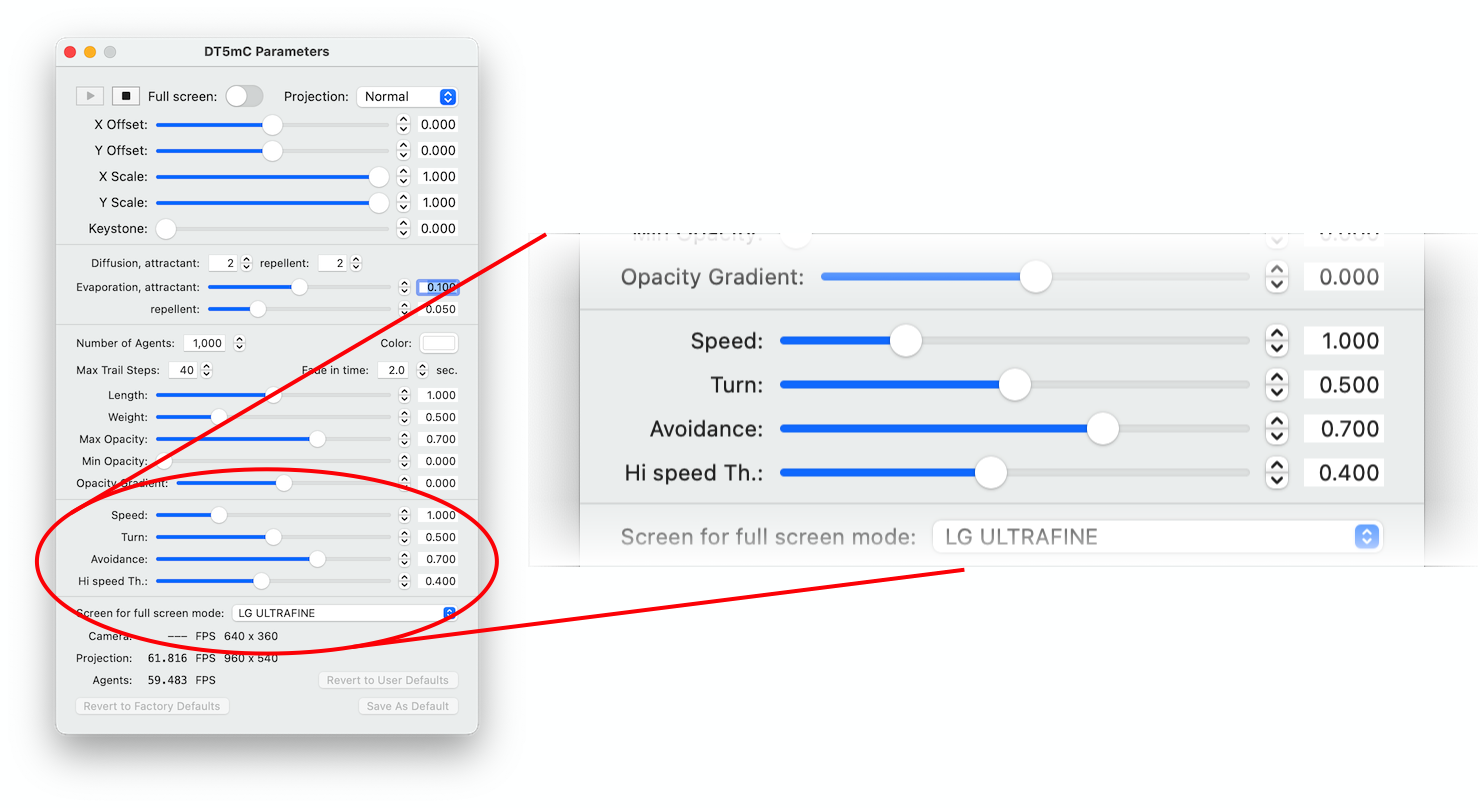
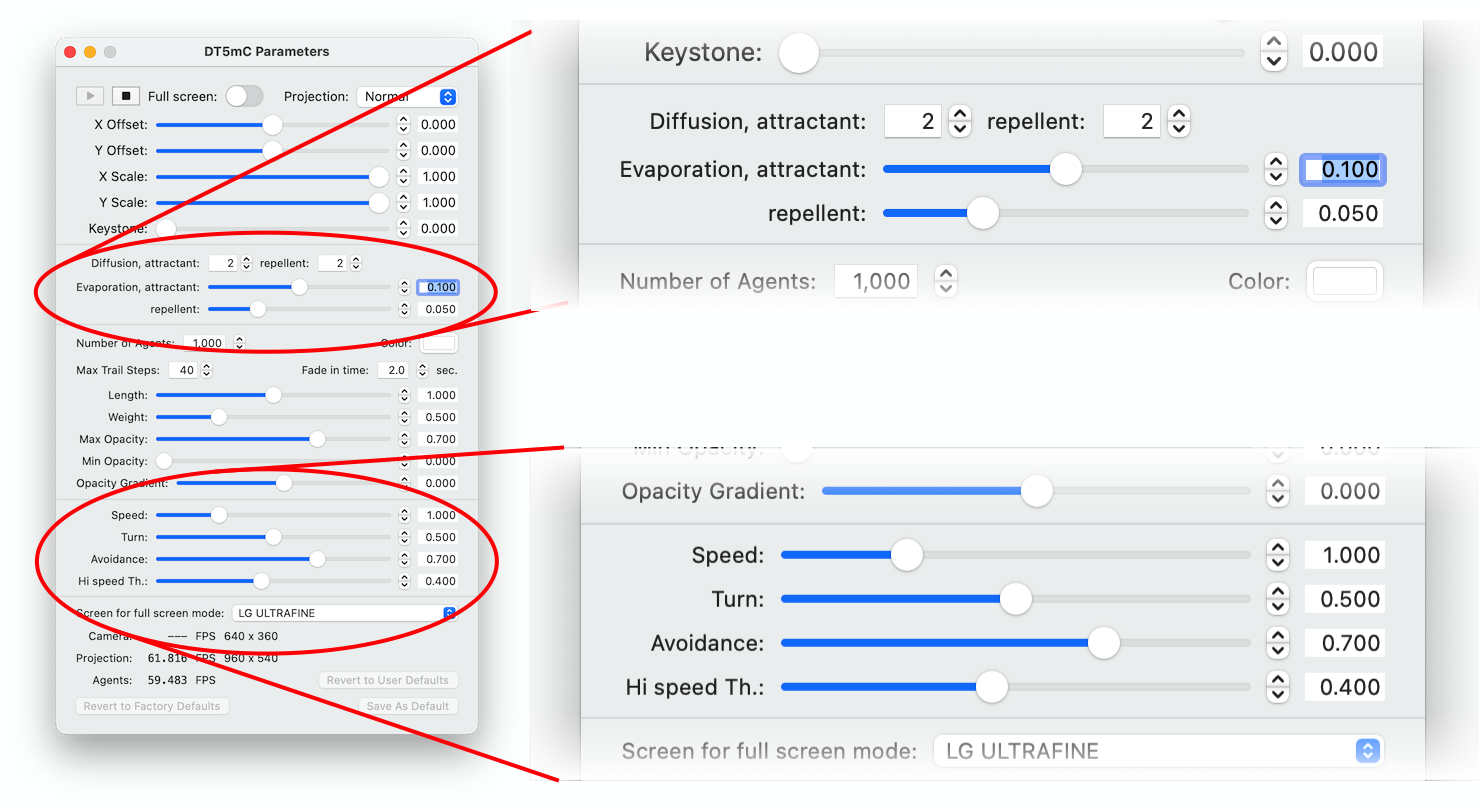
More help book, and remove useless stuffs.

diff --git a/DT5mCHelp/50Movement.html b/DT5mCHelp/50Movement.html
@@ -26,6 +26,20 @@ You can modify the movement of swarm by the following four parameters:
 <li><b>Avoidance</b>: weight of repellent force for integration with attraction force.</li>
 <li><b>Hi speed th.</b>: upper threshold of attractant's density for agent into high speed exploration.</li>
 </ol>
+<p>
+The swarm behaviour depends on the distribution of two types of virtual chemicals, attractant and repellent.
+These distributions are represented by separated two dimensional arrays of floating point numbers in the computer's memory.
+The arrangement is evenly mapped to the square lattice covering the area where the agents move.
+Each cell in the lattice corresponds to a small square of each position.
+</p><p>
+To make the dancer's image to attract agents, the cells under the detect target
+is filled with the maximum value of attractant density (is equal to 1).
+To distribute agents properly without too dense crowd, each agent put maximum density of repellent at its position.
+By applying diffusion and evaporation, the attractant summons agents from surrounds,
+and the repellent separates them each other.
+You can adjust the parameters for both diffusion and evaporation for each distribution
+by the GUI elements in the middle part of the control panel show above.
+</p>
 <hr/>
 <div class=copyright>&copy; Tatsuo Unemi, 2023.</div>
 </body>

diff --git a/DT5mCHelp/20Display.html b/DT5mCHelp/20Display.html
@@ -30,7 +30,8 @@ in the <b>Projection</b> menu in the menu bar, whose shortcut keys are
 <b>⌘G</b> and <b>⇧⌘G</b> respectively.
 When you stop the simulation, the projection swarm disappears suddenly,
 but it appears gradually by <b>Fade in time</b> when it starts again.
-You can change this duration by alternate the value displayed at middle right part of the control panel.
+You can change this duration by alternate the value displayed at middle right part of the control panel,
+as shown in a figure in the later section of <a href="60Appearance.html">Appearance</a>.
 </p>
 <h3>Full Screen Mode</h3>
 <p>
@@ -46,8 +47,9 @@ even when the control panel is hidden behind the full screen projection.
 </p>
 <h4>Selecting screen for full screen mode</h4>
 <p>
-In usual setups, a projector is attached to the video output port, typically HDMI,
-of a laptop computer, such as MacBook Pro, as the secondary screen.
+In usual setups, a projector is attached to the video output port
+of the computer as the secondary screen.
+A typical example is a HDMI connection with MacBook Pro without screen mirroring.
 In this case, you don't need to make any changes for screen settings since
 this software selects the secondary screen for full screen mode.
 In case your computer has more than two screens,

diff --git a/DT5mCHelp/index.html b/DT5mCHelp/index.html
@@ -20,7 +20,7 @@
 <p>
 DT5mC was developed by <a href="http://www.intlab.soka.ac.jp/~unemi/">Tatsuo Unemi</a>
 for the stage effect of
-<a href="https://artsandculture.google.com/asset/gods-and-dogs/nAFjLaKEH8sdiQ?hl=en">Gods and Dogs</a>,
+<a href="https://artsandculture.google.com/asset/gods-and-dogs/nAFjLaKEH8sdiQ">Gods and Dogs</a>,
 a contemporary ballet choreographed
 by <a href="http://www.jirikylian.com">Jiří Kylián</a> in 2008, that works together with another software
 for camera image processing developed by <a href="https://www.zhdk.ch/person/dr-daniel-bisig-152317">Daniel Bisig</a>.

diff --git a/DT5mCHelp/10overview.html b/DT5mCHelp/10overview.html
@@ -14,7 +14,7 @@
 </tr></table>
 <p>
 In the final part of the scene in
-<a href="https://artsandculture.google.com/asset/gods-and-dogs/nAFjLaKEH8sdiQ?hl=en">Gods and Dogs</a>,
+<a href="https://artsandculture.google.com/asset/gods-and-dogs/nAFjLaKEH8sdiQ">Gods and Dogs</a>,
 a male dancer performs solo movement.
 When the stage lights turn dim, worms start roaming on his body,
 expressing by projection from the ceiling bridge or back end of the theatre space.

diff --git a/DT5mC/Controller2.m b/DT5mC/Controller2.m
@@ -169,7 +169,7 @@ static RcvResult receive_frame(Display *display) {
 @implementation Controller2 {
 	NSConditionLock *stopCondLock;
 	NSMutableDictionary *factoryDefaults, *userDefaults, *loadedParams;
-	NSString *windowTitle;
+	NSString *windowTitle, *sizeText;
 //
 //	for Preferences Panel
 	IBOutlet NSTextField *portDgt, *widthDgt, *heightDgt;
@@ -359,6 +359,8 @@ static NSString *keyPortNumber = @"port number",
 	if (!setup_receiver()) [NSApp terminate:nil];
 	window.styleMask = window.styleMask & ~ NSWindowStyleMaskResizable;
 	[window makeKeyAndOrderFront:nil];
+	CGFloat winW = window.contentView.frame.size.width;
+	sizeText = [NSString stringWithFormat:@"%.0f x %.0f", winW, winW * 9 / 16];
 	stopCondLock = NSConditionLock.new;
 	[self startThreads:nil];
 }
@@ -693,6 +695,7 @@ static void displayReconfigCB(CGDirectDisplayID display,
 	else if (NSMaxY(winFrm) > NSMaxY(scrFrm))
 		winFrm.origin.y = NSMaxY(scrFrm) - winFrm.size.height;
 	[window setFrame:winFrm display:YES animate:YES];
+	sizeText = menuItem.title;
 }
 - (void)changeDgtStp:(DgtAndStepper *)sender {
 	NSInteger k = [sender tag];
@@ -732,6 +735,8 @@ static void displayReconfigCB(CGDirectDisplayID display,
 	else if (action == @selector(changeProjection:))
 		return menuItem.menu == projectionPopUp.menu
 			|| ProjectionType != menuItem.tag;
+	else if (action == @selector(resizeWindow:))
+		return ![menuItem.title isEqualToString:sizeText];
 	else if (action == @selector(switchFullScreen:))
 		menuItem.title = prjctView.inFullScreenMode?
 			@"Exit Full Screen" : @"Enter Full Screen";

diff --git a/README.md b/README.md
@@ -1,5 +1,6 @@
 # DT5mC
-This software was developed by [Tatsuo Unemi](http://www.intlab.soka.ac.jp/~unemi/) for the stage effect of "Gods and Dogs,"
+This software was developed by [Tatsuo Unemi](http://www.intlab.soka.ac.jp/~unemi/) for the stage effect of
+[Gods and Dogs](https://artsandculture.google.com/asset/gods-and-dogs/nAFjLaKEH8sdiQ),
 a contemporary ballet choreographed by [Jiří Kylián](http://www.jirikylian.com) in 2008,
 that works together with another software for camera image processing developed by
 [Daniel Bisig](https://www.zhdk.ch/person/dr-daniel-bisig-152317).
@@ -8,6 +9,6 @@ In 2023, the code was revised to be adaptable to 4K 60Hz projector and 16:9 came
 
 ### Machine requirement
 This software runs on Apple's Mac computer equipped with Apple Silicon CPU/GPU.
-macOS 12.0 or later operating system is required.
+macOS 12.0 or a later operating system is required.
 
 &copy; Tatsuo Unemi 2023.
